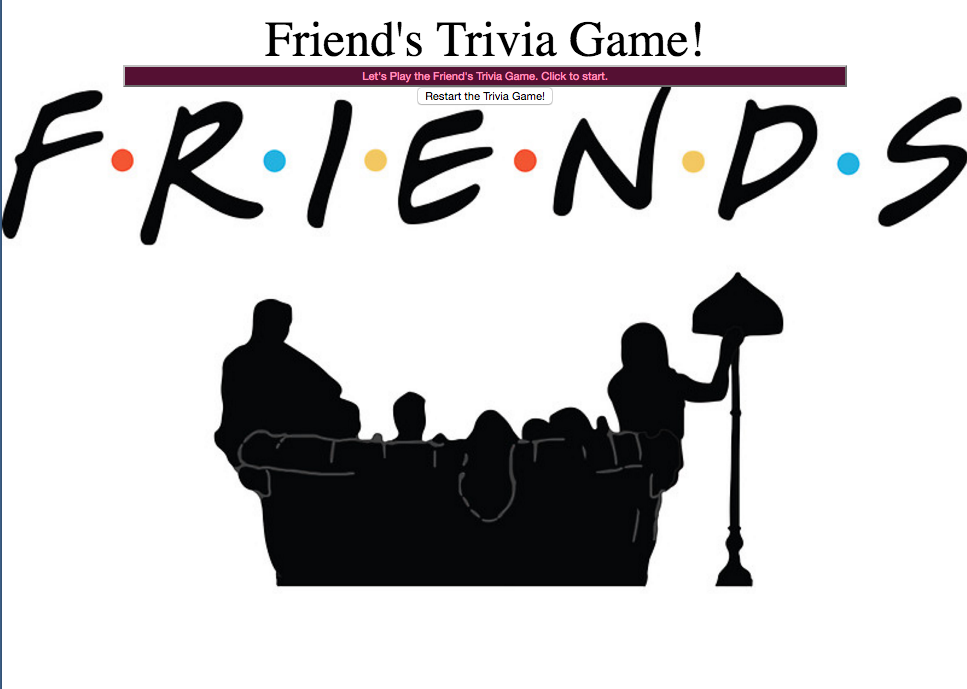
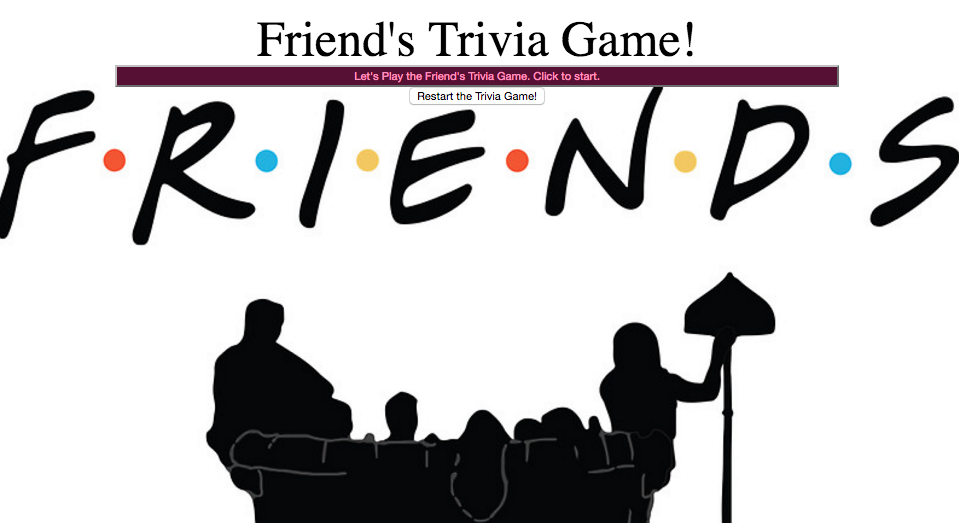
Resized images to fit better and added Bootstrap rows so the portfolio items would line up properly

diff --git a/index.html b/index.html
@@ -173,6 +173,8 @@
                 </a>
               </div>
             </div>
+          </div>
+          <div class="row">          
             <div class="col-md-6">
               <div class="portfolio-item" data-set="javascript">
                 <div class="overlay">
@@ -199,6 +201,8 @@
                 </a>
               </div>
             </div>
+          </div>
+          <div class="row">           
             <div class="col-md-6">
               <div class="portfolio-item" data-set="api">
                 <div class="overlay">
@@ -225,19 +229,21 @@
                 </a>
               </div>
             </div>
+          </div>
+          <div class="row">
             <div class="col-md-6">
-              <div class="portfolio-item" data-set="angular">
+              <div class="portfolio-item" data-set="ajax">
                 <div class="overlay">
                   <span class="title">
-                    <h3 class="reference-title">Future Moments</h3>
-                    <p>Angular 1 application with API's and Node.js</p>
+                    <h3 class="reference-title">CodeSchool Badges</h3>
+                    <p>Used AJAX calls and jQuery to display CodeSchool progress</p>
                   </span>
                 </div> 
-                <a href="http://45.55.237.41/">
-                  <img class="img-portfolio img-responsive" src="img/FutureMoments.png">
+                <a href="http://jquerybadges.edna.tech/">
+                  <img class="img-portfolio img-responsive" src="img/codeschoolajax.png">
                 </a>
               </div>
-            </div>
+            </div>            
             <div class="col-md-6">
               <div class="portfolio-item" data-set="jquery">
                 <div class="overlay">
@@ -251,6 +257,8 @@
                 </a>
               </div>
             </div>
+          </div>
+          <div class="row">
             <div class="col-md-6">
               <div class="portfolio-item" data-set="javascript">
                 <div class="overlay">
@@ -277,6 +285,8 @@
                 </a>
               </div>
             </div>
+          </div>
+          <div class="row">
             <div class="col-md-6">
               <div class="portfolio-item" data-set="ajax">
                 <div class="overlay">
@@ -304,6 +314,22 @@
               </div>
             </div>
           </div>
+          <div class="row">
+            <div class="col-md-6">
+              <div class="portfolio-item" data-set="angular">
+                <div class="overlay">
+                  <span class="title">
+                    <h3 class="reference-title">Future Moments</h3>
+                    <p>Angular 1 application with API's and Node.js</p>
+                  </span>
+                </div> 
+                <a href="http://45.55.237.41/">
+                  <img class="img-portfolio img-responsive" src="img/FutureMoments.png">
+                </a>
+              </div>
+            </div>
+          </div>
+          <!-- </div> -->
           <!-- /.row (nested) -->
           <!--                     <a href="#" class="btn btn-dark">View More Items</a>
  --></div>
